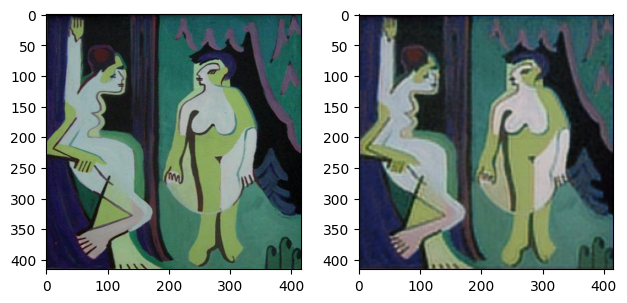
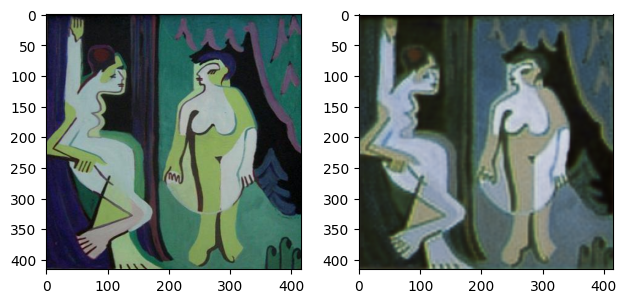
images added, latest files

diff --git a/wikiart.py b/wikiart.py
@@ -20,6 +20,7 @@ class WikiArtImage:
 
     def get(self):
         if not self.loaded:
+            # added rescaling to range 0-1
             self.image = read_image(os.path.join(self.imgdir, self.label,
                                                  self.filename)).float()/255
             self.loaded = True
@@ -58,7 +59,6 @@ class WikiArtDataset(Dataset):
         self.labels = [self.label_to_idx[label] for label in labels]
         # for part 3
         self.style2idx = {arttype: i for i, arttype in enumerate(self.classes)}
-        
 
     def __len__(self):
         return len(self.filedict)

diff --git a/README.md b/README.md
@@ -111,17 +111,17 @@ By combining these two losses, the model is trained to retain as much informatio
 
 ### Results
 
-The altered image post style transfer still resembled the original image, but perhaps diverged from it more strongly than in part 2. Essentially I would describe the output here as almost applying a sepia filter to the original content image, intensity of this effect varies.  
+The altered image post style transfer still resembled the original image, but perhaps diverged from it more strongly than in part 2. Essentially I would describe the output here as almost moving towards greyscale, lessening colour intensity, or applying a sepia filter to the original content image, strength of this effect varies. Both example below were combined with the Ukiyoe style embedding.
 
 ![alt text](https://github.com/jshrdt/lt2326-h24-wa_modeling/blob/main/example_style_transfer.png?raw=true)
 
 This result starts making sense when inspecting the outputs from the style embeddings training: In trying to generalise over many different paintings in a given art style, the embedding is pushed towards a uniform grey-beige image (sort of a middle ground for all possible pixel values). Though this does not exactly represent style in a meaningful way, it seems the transfer part is working as intended.  
-This can be illustrated by modifying the transfer training loop to give more weight to the style loss (loss = content_loss + (8 * style_loss)).
+This can be illustrated by modifying the transfer training loop to give more weight to the style loss (loss = content_loss + (8 * style_loss)):
 
 ![alt text](https://github.com/jshrdt/lt2326-h24-wa_modeling/blob/main/example_style_lossX8.png?raw=true)
 
-I suspect two main factors for these results, in which the model could be improved:  
-Unsuitable gold style representation during embeddings training & art style as a basis to attempt generalisation over. The former could be improved by setting the gold standard not as the original image, but some feature representation of it (from VGG for example), or the gram matrix of said representation . As for the latter, I'm not too sure what the goal for an art style representation ought to look like, it seems more intuitive to me to attempt a style transfer from a single painting onto another one, or to perhaps create embeddings for a certain artist. Paintings from the same genre probably diverge too much as to allow proper embeddings training with the methods I have used here.
+I suspect two main factors for these results, in which the model could be improved: A) Unsuitable gold style representation during embeddings training. B) Art style as a basis to attempt generalisation over.  
+The former could be improved by setting the gold standard not as the original image, but some feature representation of it (from VGG for example), or the gram matrix of said representation . As for the latter, I'm not too sure what the goal for an art style representation ought to look like, it seems more intuitive to me to attempt a style transfer from a single painting onto another one, or to perhaps create embeddings for a certain artist. Paintings from the same genre probably diverge too much as to allow proper embeddings training with the methods I have used here.
 
 Literature:  
 Gates, L. A., Ecker, A. S., Bethge, M. (2016). Image Style Transfer Using Convolutional Neural Networks. 2016 IEEE Conference on Computer Vision and Pattern Recognition (CVPR). 2414-2423. https://doi.org/10.1109/CVPR.2016.265
